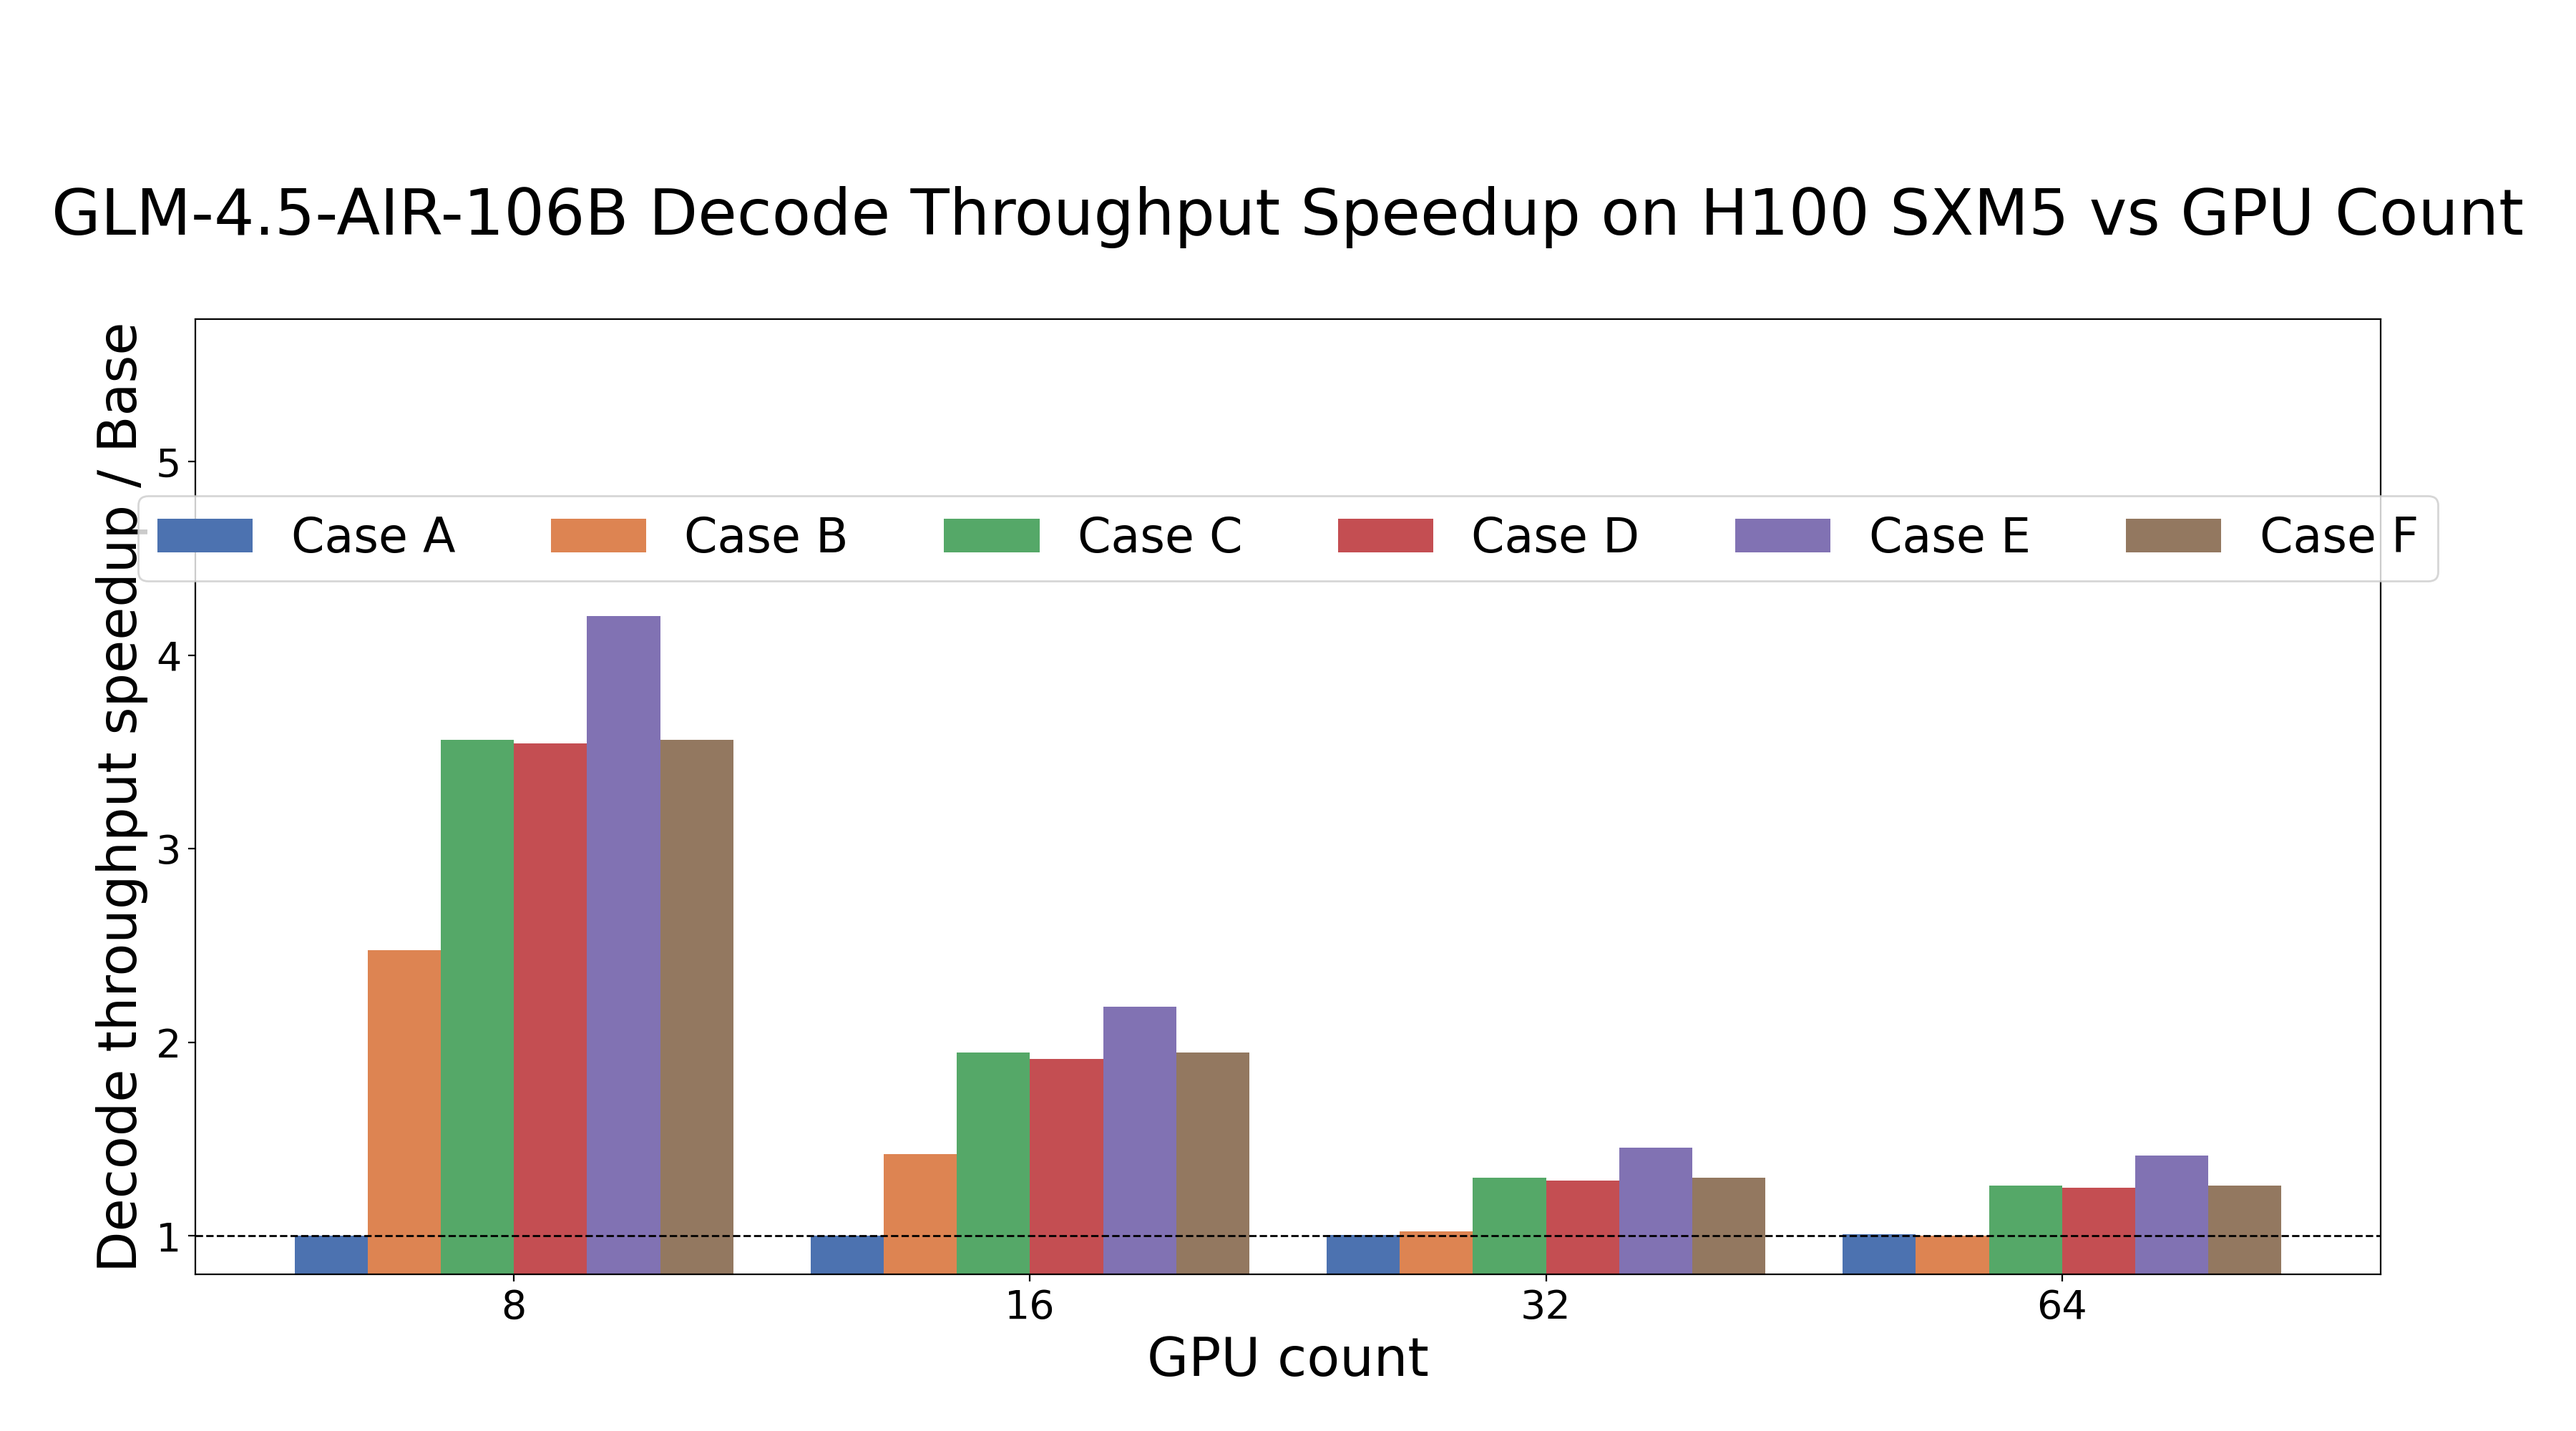
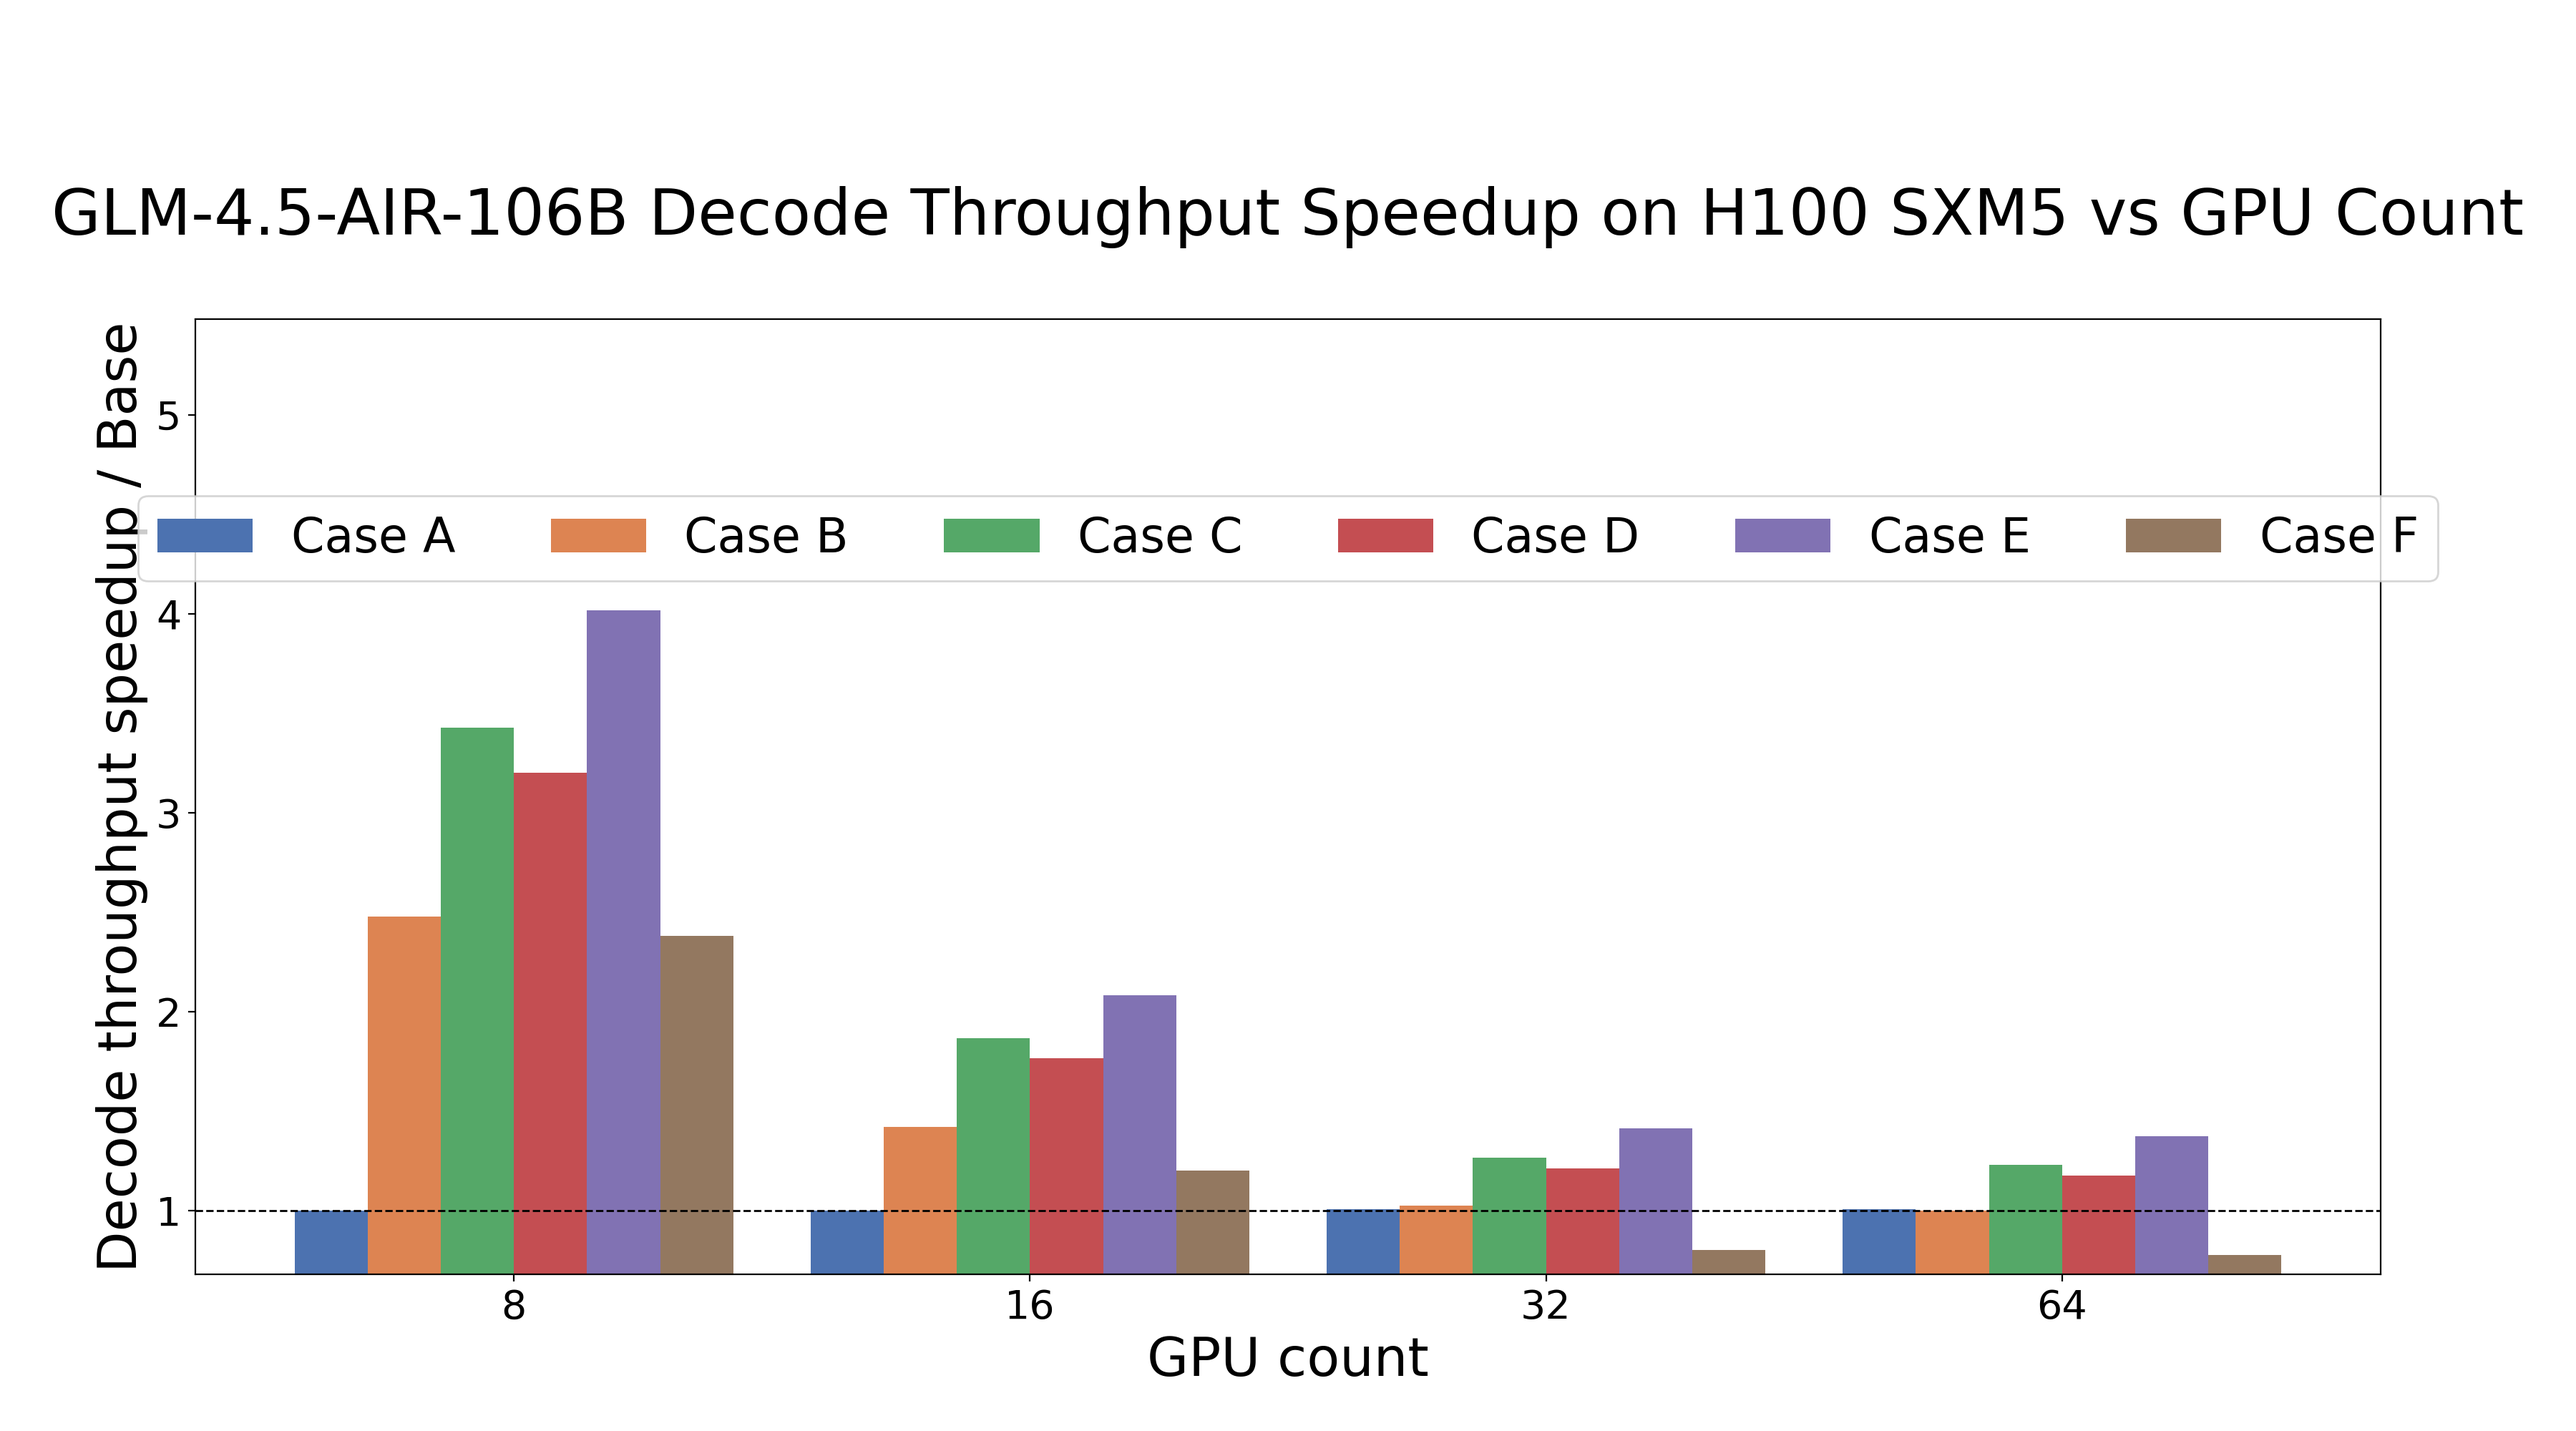
Serving variants: adopt 3x stacked-DRAM multiplier (4x/5.33x hide the thermal throttle; rationale in comment); Case F = NVLink-domain latency; adaptive plot y-floor

diff --git a/tools/parallelism_speedup_per_gpu_combined.py b/tools/parallelism_speedup_per_gpu_combined.py
@@ -93,10 +93,14 @@ CASE_FILENAME_BY_LABEL = {
     "Case E": "case-E.yaml",
     "Case F": "case-F.yaml",
 }
-# Case F sets network latency on the inter-node fabric dims (dim1, dim2 in the
-# H100 base config) while keeping the intra-node NVLink dim (dim0) at baseline.
-CASE_F_INTER_NODE_LATENCY_S = 20e-6
-CASE_F_INTRA_NODE_DIM_COUNT = 1
+# Case F sets network latency on dim0 (the NVLink scale-up domain carrying
+# tp/cp/ep) while keeping the inter-node dims (dim1, dim2) at baseline.
+# Framing: co-packaged versus cable-attached NVLink-domain interconnect.
+# (An earlier variant put the latency on dims 1-2 instead, but winning
+# inference mappings are pp=1 with tp/cp/ep on dim0, so that latency never
+# reached the critical path and F degenerated to Case C.)
+CASE_F_NVLINK_DIM_LATENCY_S = 20e-6
+CASE_F_NVLINK_DIM_INDEX = 0
 
 OMITTED_PLOT_CASES = set()
 
@@ -603,11 +607,16 @@ def _build_generated_case_dicts(base_hw: dict) -> dict[str, dict]:
     case_b["tech_param"]["DRAM"]["size"] = _scale_quantity(case_b["tech_param"]["DRAM"]["size"], 2.0)
     cases["Case B"] = case_b
 
+    # Stacked-DRAM bandwidth multiplier for Case C (Case D layers the x0.73
+    # thermal throttle on top). Chosen at 3.0x (user's hard lower bound) so the
+    # Case D claw-back is resolvable in the decode-throughput metric: at the
+    # earlier 5.33x (and even 4x) decode is dominated by per-step collective
+    # latency + launch overhead and the throttle costs <4%.
     case_c = deepcopy(base_hw)
     _force_zero_network_overlap(case_c)
     case_c["tech_param"]["DRAM"]["size"] = _scale_quantity(case_c["tech_param"]["DRAM"]["size"], 2.0)
     case_c["tech_param"]["DRAM"]["bandwidth"] = _scale_quantity(
-        case_c["tech_param"]["DRAM"]["bandwidth"], 5.33
+        case_c["tech_param"]["DRAM"]["bandwidth"], 3.0
     )
     cases["Case C"] = case_c
 
@@ -623,8 +632,11 @@ def _build_generated_case_dicts(base_hw: dict) -> dict[str, dict]:
     cases["Case E"] = case_e
 
     case_f = deepcopy(case_c)
-    for dim_index in range(CASE_F_INTRA_NODE_DIM_COUNT, _network_dimension_count(case_f)):
-        _set_dimension_latency(case_f, dim_index=dim_index, latency_s=CASE_F_INTER_NODE_LATENCY_S)
+    _set_dimension_latency(
+        case_f,
+        dim_index=CASE_F_NVLINK_DIM_INDEX,
+        latency_s=CASE_F_NVLINK_DIM_LATENCY_S,
+    )
     cases["Case F"] = case_f
 
     return cases
@@ -996,6 +1008,7 @@ def _plot_model_speedups(ax, run_data, gpu_counts, palette):
     group_width = 0.85
     bar_width = group_width / max(1, len(plotted_cases))
 
+    min_speedup = None
     for li, (label, _) in enumerate(plotted_cases):
         xs = []
         ys = []
@@ -1010,6 +1023,8 @@ def _plot_model_speedups(ax, run_data, gpu_counts, palette):
             x_pos = idx - (group_width / 2) + bar_width * li + bar_width / 2
             xs.append(x_pos)
             ys.append(speedup)
+            if min_speedup is None or speedup < min_speedup:
+                min_speedup = speedup
         if xs:
             ax.bar(xs, ys, width=bar_width, label=label, color=palette[li % len(palette)])
 
@@ -1017,7 +1032,12 @@ def _plot_model_speedups(ax, run_data, gpu_counts, palette):
     ax.set_xticks(range(len(gpu_counts)), [str(g) for g in gpu_counts])
     ax.set_xlabel("GPU count", fontsize=PLOT_YLABEL_FONT_SIZE)
     _, y_max = ax.get_ylim()
-    ax.set_ylim(0.8, max(1.2, y_max * 1.30))
+    # Keep the historical 0.8 floor unless a case dips below it (e.g. a
+    # latency-penalty case slower than Base) - never clip bars silently.
+    y_floor = 0.8
+    if min_speedup is not None and min_speedup < y_floor:
+        y_floor = max(0.0, min_speedup - 0.1)
+    ax.set_ylim(y_floor, max(1.2, y_max * 1.30))
     ax.set_title("")
 
 
